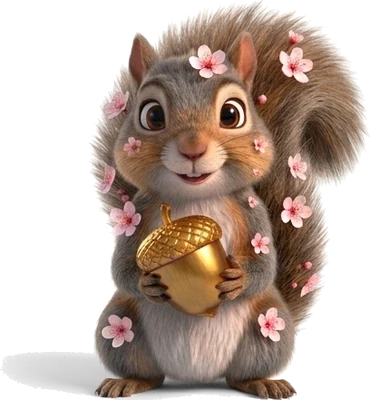
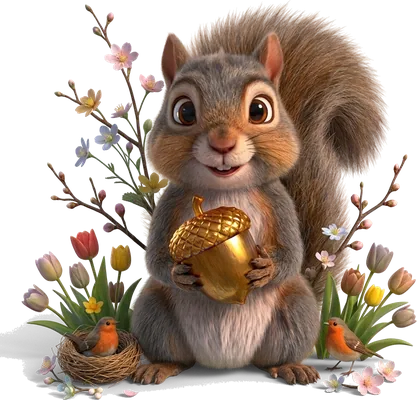
1.27.0: the fuller seasonal Scouts, on three screens, two by two in the album
- New art for all four: tulips and a robin's nest, a beach with a surfboard,
  a sledge and a wrapped present, a scarf in falling leaves. Extracted from the
  white and black pairs the same way — solvable alpha rather than a key — with
  a higher noise floor because these arrived as JPEG, and the contact shadows
  come across as semi-transparent black, which is what they are.
- The Pro sheet shows him too. It is the third screen where he stands alone
  holding the acorn with nothing to read beside him, and the one where somebody
  is deciding whether the people behind the app are worth paying.
- The album shows the four two by two. At four across each got about eighty
  pixels, which turns the blossom, the sunglasses and the mittens — the entire
  point of having four — into texture.

diff --git a/mobile/lib/ui/scout_album.dart b/mobile/lib/ui/scout_album.dart
@@ -344,38 +344,60 @@ class _Seasons extends StatelessWidget {
           ),
         ),
         const SizedBox(height: 14),
-        Row(
-          crossAxisAlignment: CrossAxisAlignment.end,
-          children: [
-            for (final season in Season.values)
-              Expanded(
-                child: Column(
-                  children: [
-                    Scout(
-                      pose: ScoutPose.acorn,
-                      dressed: season,
-                      height: 86,
-                      // Breathing only. Four floating squirrels in one row is
-                      // a row nobody can read — the same note as `_Row`.
-                      motion: const [ScoutMotion.breathe],
-                    ),
-                    const SizedBox(height: 6),
-                    Text(
-                      _when[season]!,
-                      textAlign: TextAlign.center,
-                      style: TextStyle(
-                        fontFamily: fontBody,
-                        fontSize: 10.5,
-                        height: 1.35,
-                        // The one you would see today, named in gold.
-                        color: season == now ? c.gold : c.muted,
+
+        /*
+          ── Two by two, not four across ─────────────────────────────────────
+
+          Four in a row on a phone gives each one about eighty pixels, which
+          is small enough that the blossom, the sunglasses and the mittens —
+          the entire point of having four — turn into texture.
+
+          Two by two doubles the width each gets. The album is the one screen
+          in the app whose whole job is looking at him, so it should let
+          somebody do that.
+        */
+        for (final pair in [
+          [Season.spring, Season.summer],
+          [Season.autumn, Season.winter],
+        ]) ...[
+          Row(
+            crossAxisAlignment: CrossAxisAlignment.end,
+            children: [
+              for (final season in pair)
+                Expanded(
+                  child: Column(
+                    children: [
+                      Scout(
+                        pose: ScoutPose.acorn,
+                        dressed: season,
+                        height: 150,
+                        // Breathing only. Four floating squirrels on one
+                        // screen is a screen nobody can read — the same note
+                        // as `_Row`.
+                        motion: const [ScoutMotion.breathe],
                       ),
-                    ),
-                  ],
+                      const SizedBox(height: 8),
+                      Text(
+                        _when[season]!,
+                        textAlign: TextAlign.center,
+                        style: TextStyle(
+                          fontFamily: fontBody,
+                          fontSize: 11.5,
+                          height: 1.35,
+                          fontWeight: season == now
+                              ? FontWeight.w700
+                              : FontWeight.w400,
+                          // The one you would see today, named in gold.
+                          color: season == now ? c.gold : c.muted,
+                        ),
+                      ),
+                    ],
+                  ),
                 ),
-              ),
-          ],
-        ),
+            ],
+          ),
+          const SizedBox(height: 18),
+        ],
       ],
     );
   }

diff --git a/mobile/lib/ui/unlock_sheet.dart b/mobile/lib/ui/unlock_sheet.dart
@@ -36,6 +36,7 @@ import 'package:flutter/material.dart';
 import '../billing/billing.dart';
 import '../db/repository.dart';
 import '../logic/limits.dart';
+import '../logic/season.dart';
 import 'feedback.dart';
 import 'pro_badge.dart';
 import 'scout.dart';
@@ -289,6 +290,16 @@ class _UnlockState extends State<_Unlock> {
                 */
                 height: (MediaQuery.sizeOf(context).height * 0.19)
                     .clamp(96.0, 180.0),
+                /*
+                  Dressed for the month, like the launch and lock screens.
+
+                  This is the third place he stands alone holding the acorn
+                  with nothing to read beside him — and it is the screen where
+                  somebody is deciding whether the people behind the app are
+                  worth five pounds. A squirrel who noticed it was October is a
+                  small argument for yes.
+                */
+                dressed: seasonOf(DateTime.now()),
                 motion: const [ScoutMotion.float, ScoutMotion.breathe],
                 // Three pixels. He is at the top of a list that clips at its
                 // own edge, and there are eight of padding above him.

diff --git a/mobile/lib/ui/settings_tab.dart b/mobile/lib/ui/settings_tab.dart
@@ -61,7 +61,7 @@ import 'scout.dart';
 import 'scout_album.dart';
 import 'theme.dart';
 
-const appVersion = '1.26.1';
+const appVersion = '1.27.0';
 
 /*
   ── Asking Settings to go somewhere ─────────────────────────────────────────
